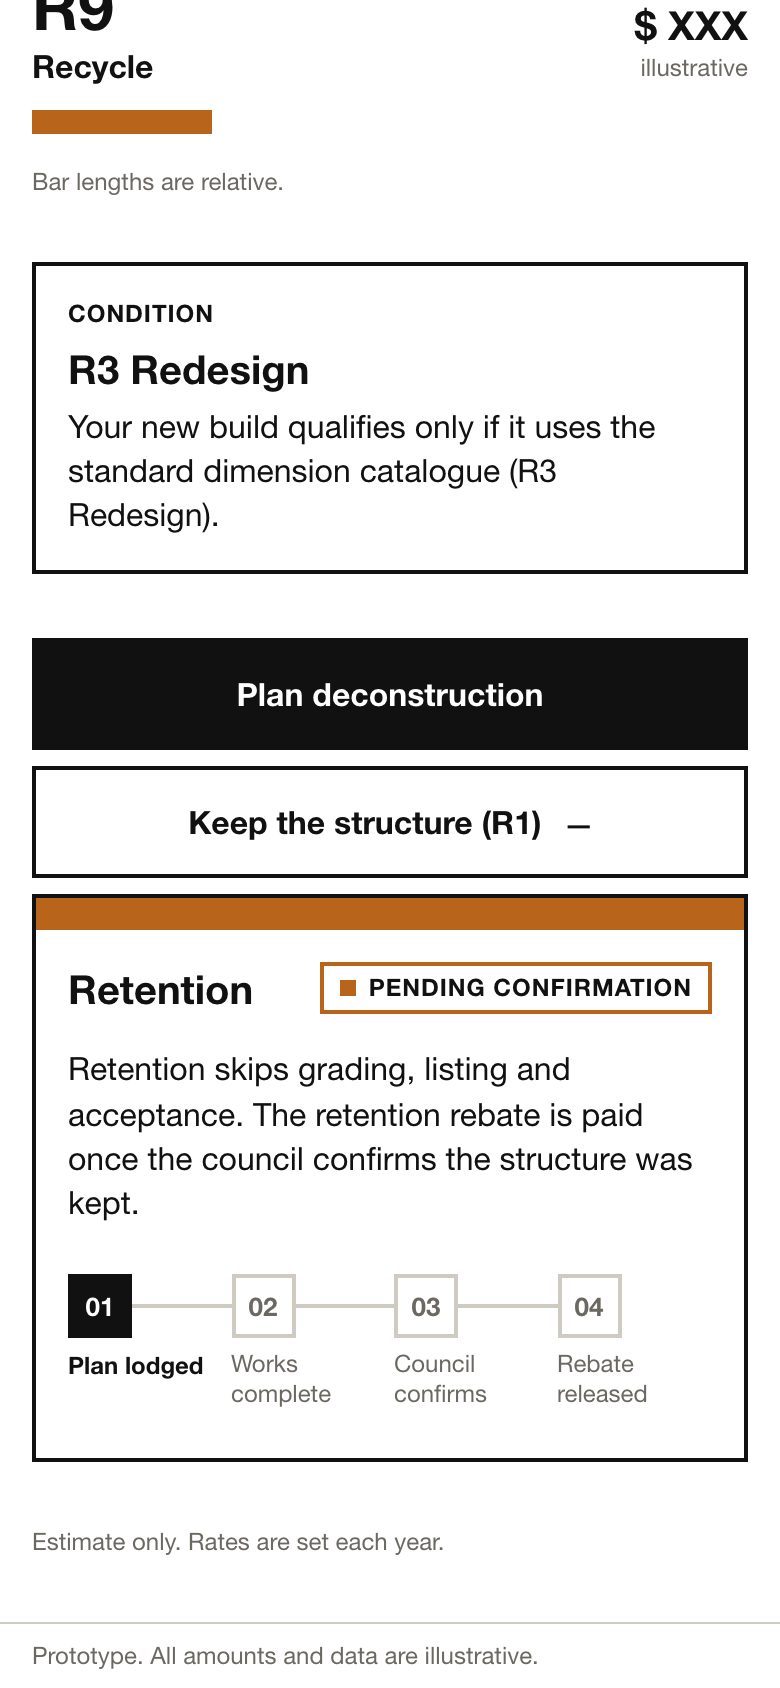
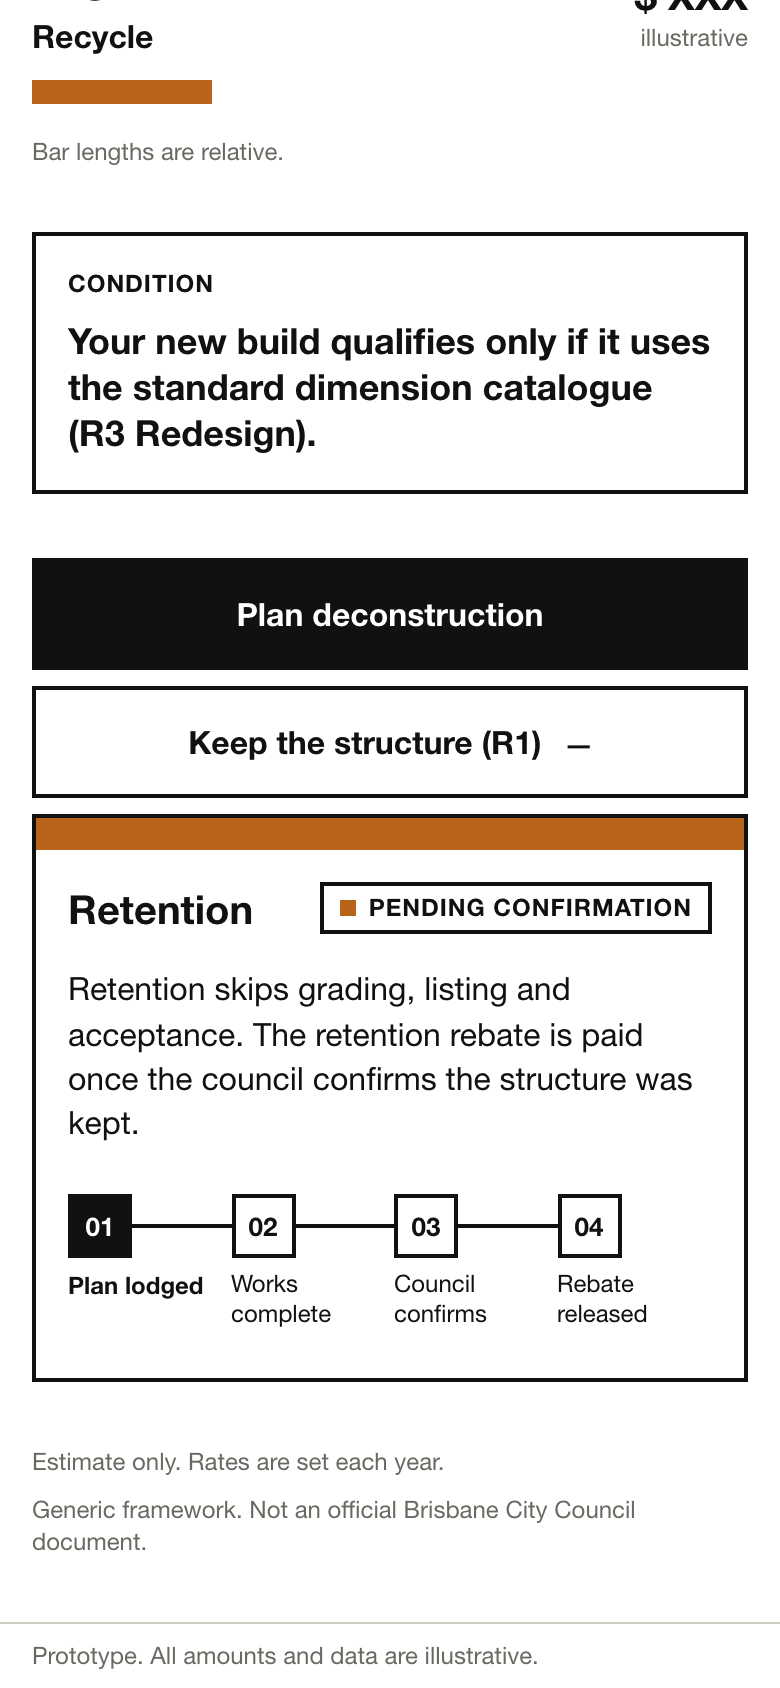
Add generic framework notes to screens 1 and 7, report screenshots and flow overview

diff --git a/src/screens/Accept.jsx b/src/screens/Accept.jsx
@@ -42,6 +42,7 @@ function Before({ delivered, setDelivered, onAccept, onScan, onReject }) {
         <Button variant="specifier" onClick={onAccept}>Accept batch</Button>
         <Button variant="danger" onClick={onReject}>Report a grade mismatch</Button>
       </div>
+      <p className="fine">Generic framework. Not an official Brisbane City Council document.</p>
     </div>
   );
 }
@@ -94,6 +95,7 @@ export default function Accept({ accept, setAccept }) {
         <div className="stack">
           <After />
           <p className="fine">The council receives the acceptance record that closes the claim.</p>
+          <p className="fine">Generic framework. Not an official Brisbane City Council document.</p>
           <Button variant="primary" onClick={() => go('/certificates')}>View certificates</Button>
         </div>
       ) : (

diff --git a/src/screens/Estimate.jsx b/src/screens/Estimate.jsx
@@ -97,7 +97,10 @@ export default function Estimate({ estimate, setEstimate }) {
           )}
         </div>
 
-        <p className="fine">Estimate only. Rates are set each year.</p>
+        <div className="stack-sm">
+          <p className="fine">Estimate only. Rates are set each year.</p>
+          <p className="fine">Generic framework. Not an official Brisbane City Council document.</p>
+        </div>
       </div>
     </Screen>
   );
